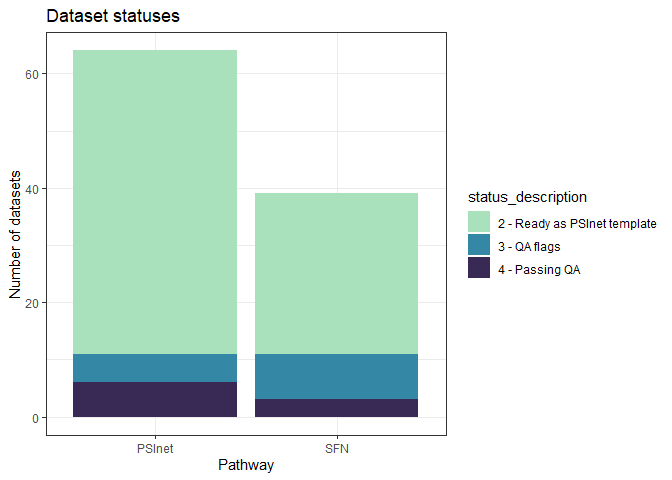
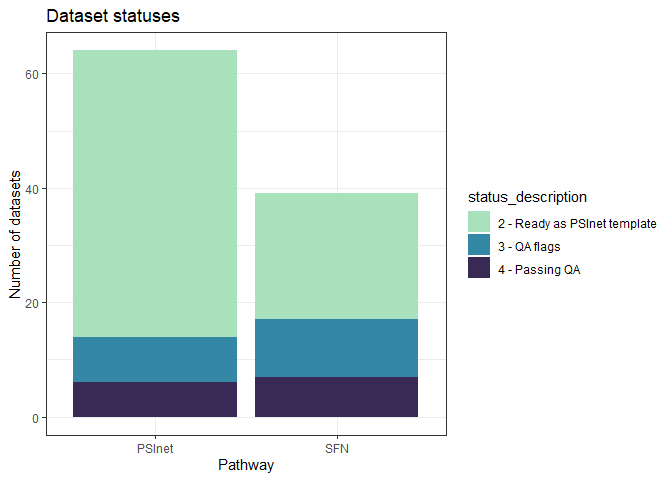
update README

Changed region(s): [[0.0938, 0.6562, 0.625, 0.75], [0.375, 0.7812, 0.625, 0.8438]]

diff --git a/README.md b/README.md
@@ -11,9 +11,9 @@ This repo houses scripts for QA of PSInet data.
 
 | source | status_description           |   n |
 |:-------|:-----------------------------|----:|
-| PSInet | 2 - Ready as PSInet template |  53 |
-| PSInet | 3 - QA flags                 |   5 |
+| PSInet | 2 - Ready as PSInet template |  50 |
+| PSInet | 3 - QA flags                 |   8 |
 | PSInet | 4 - Passing QA               |   6 |
-| SFN    | 2 - Ready as PSInet template |  28 |
-| SFN    | 3 - QA flags                 |   8 |
-| SFN    | 4 - Passing QA               |   3 |
+| SFN    | 2 - Ready as PSInet template |  22 |
+| SFN    | 3 - QA flags                 |  10 |
+| SFN    | 4 - Passing QA               |   7 |
